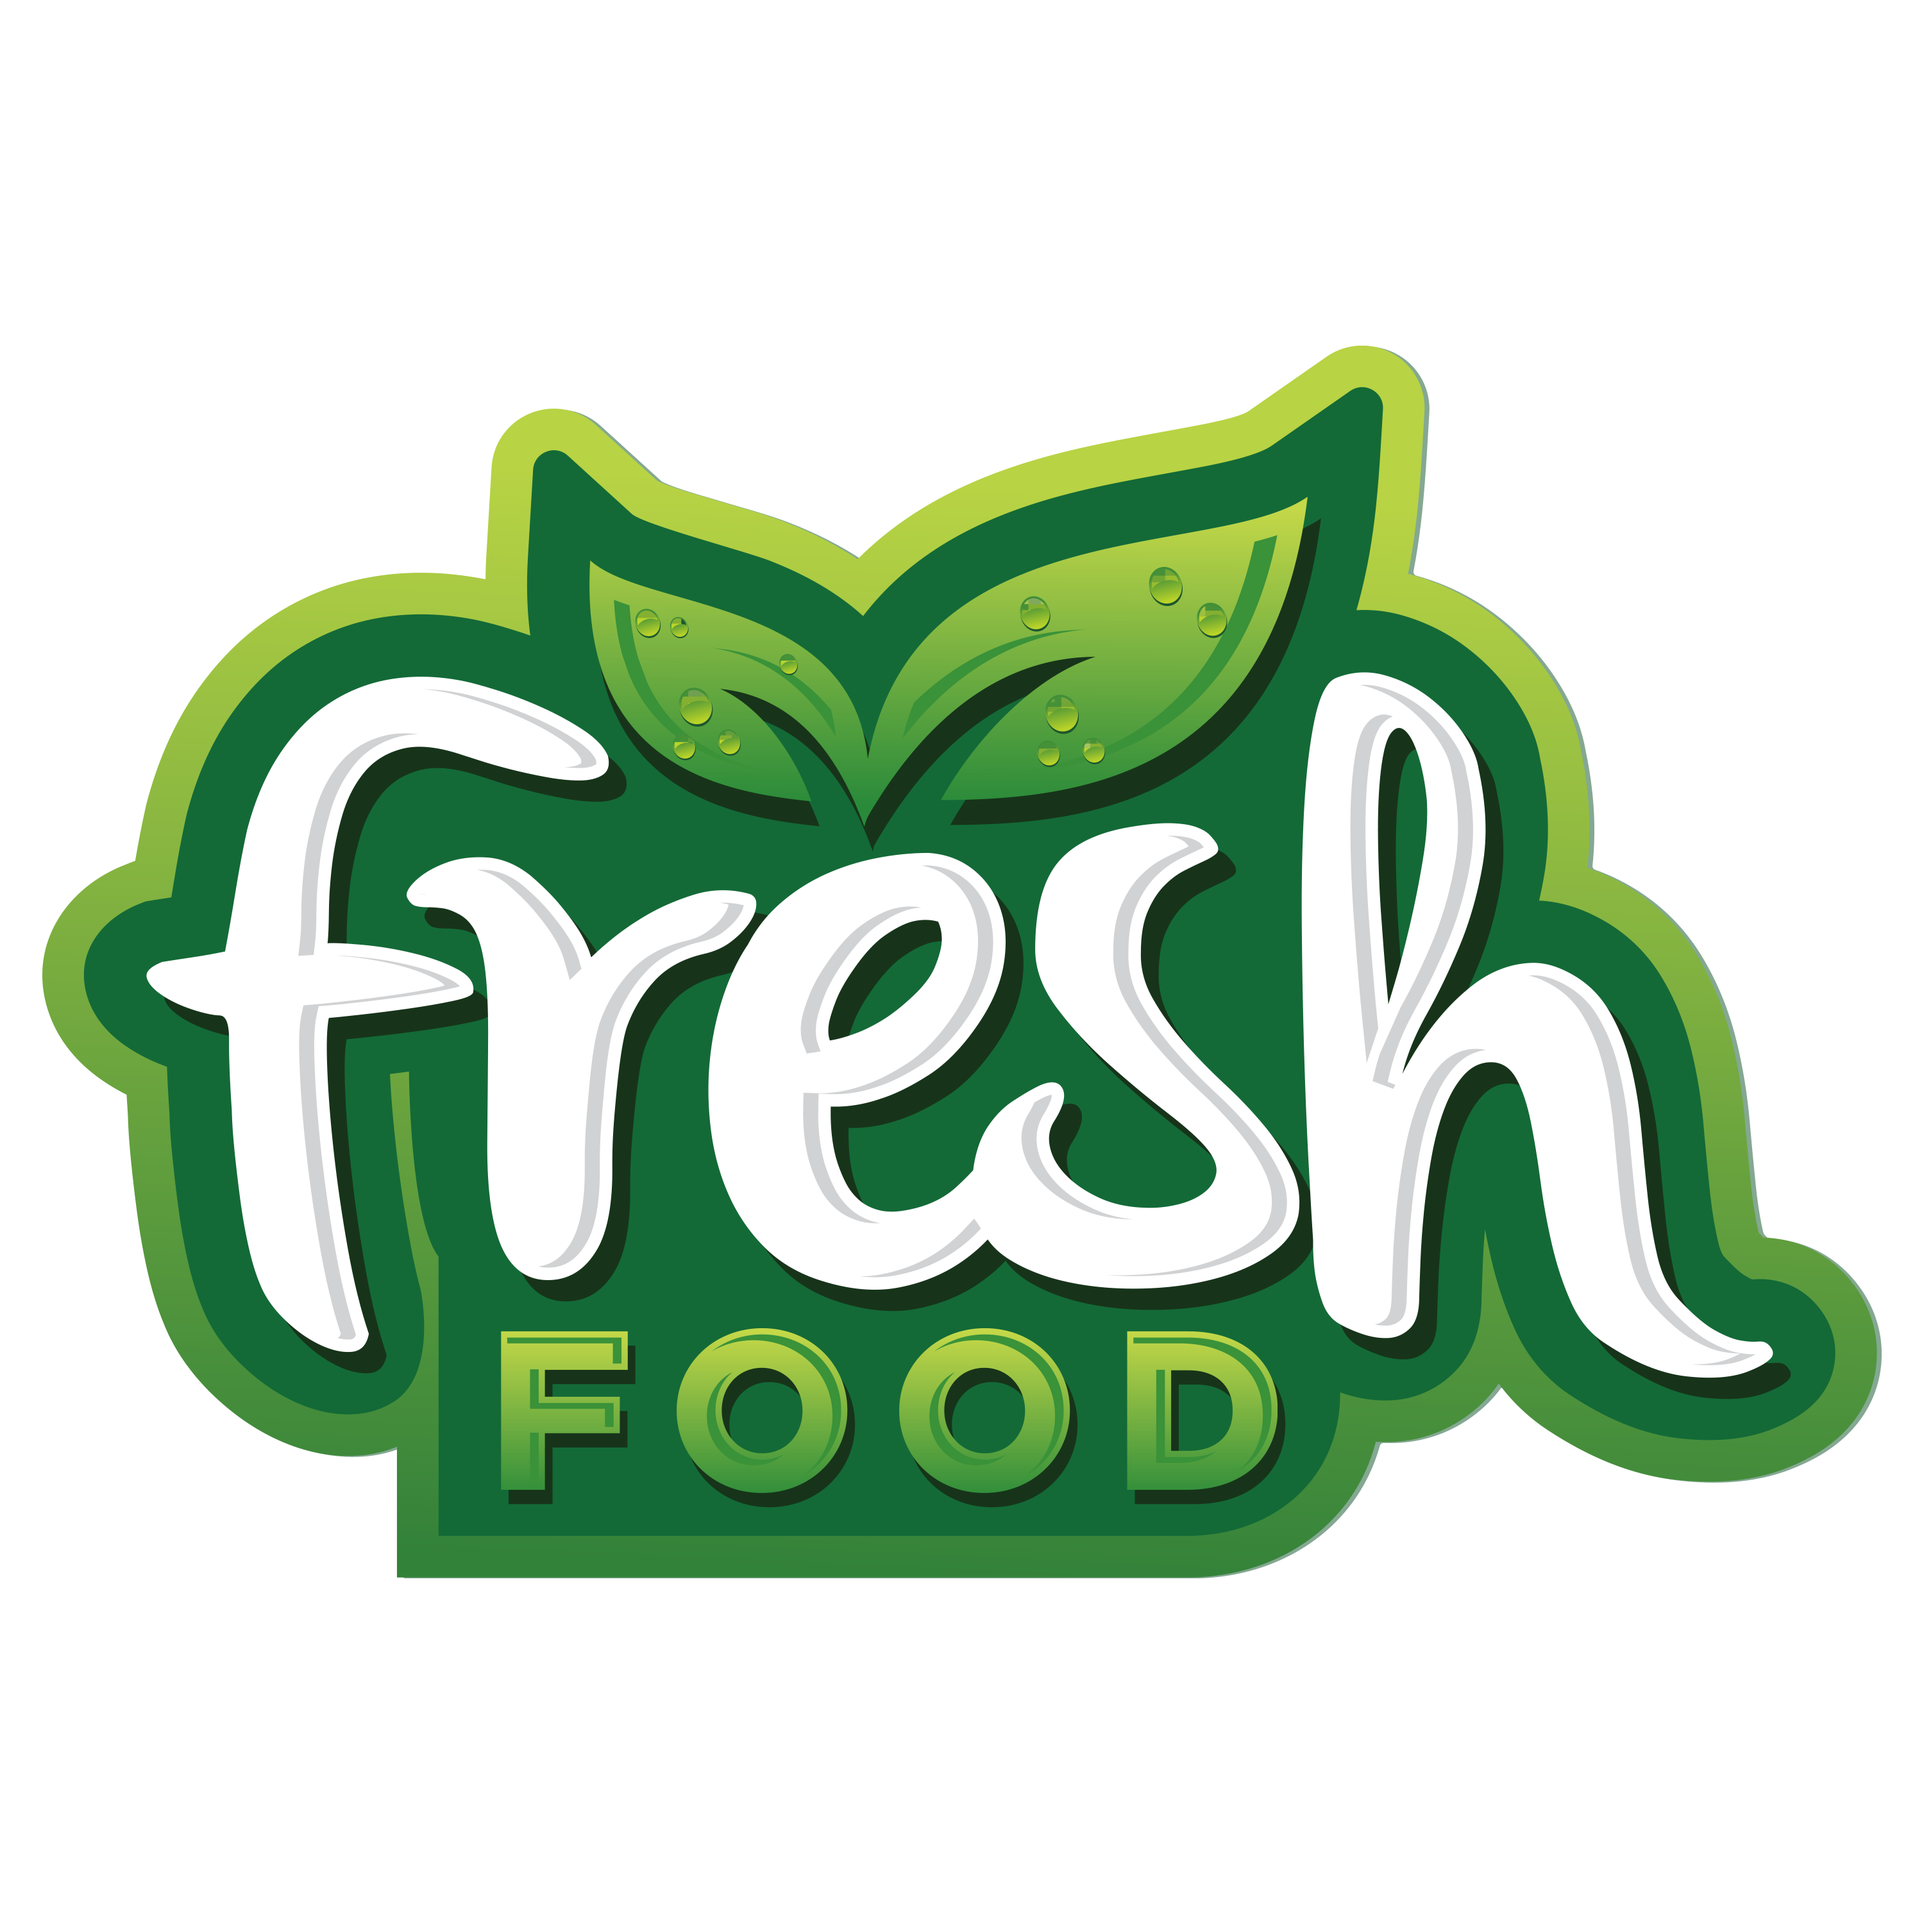
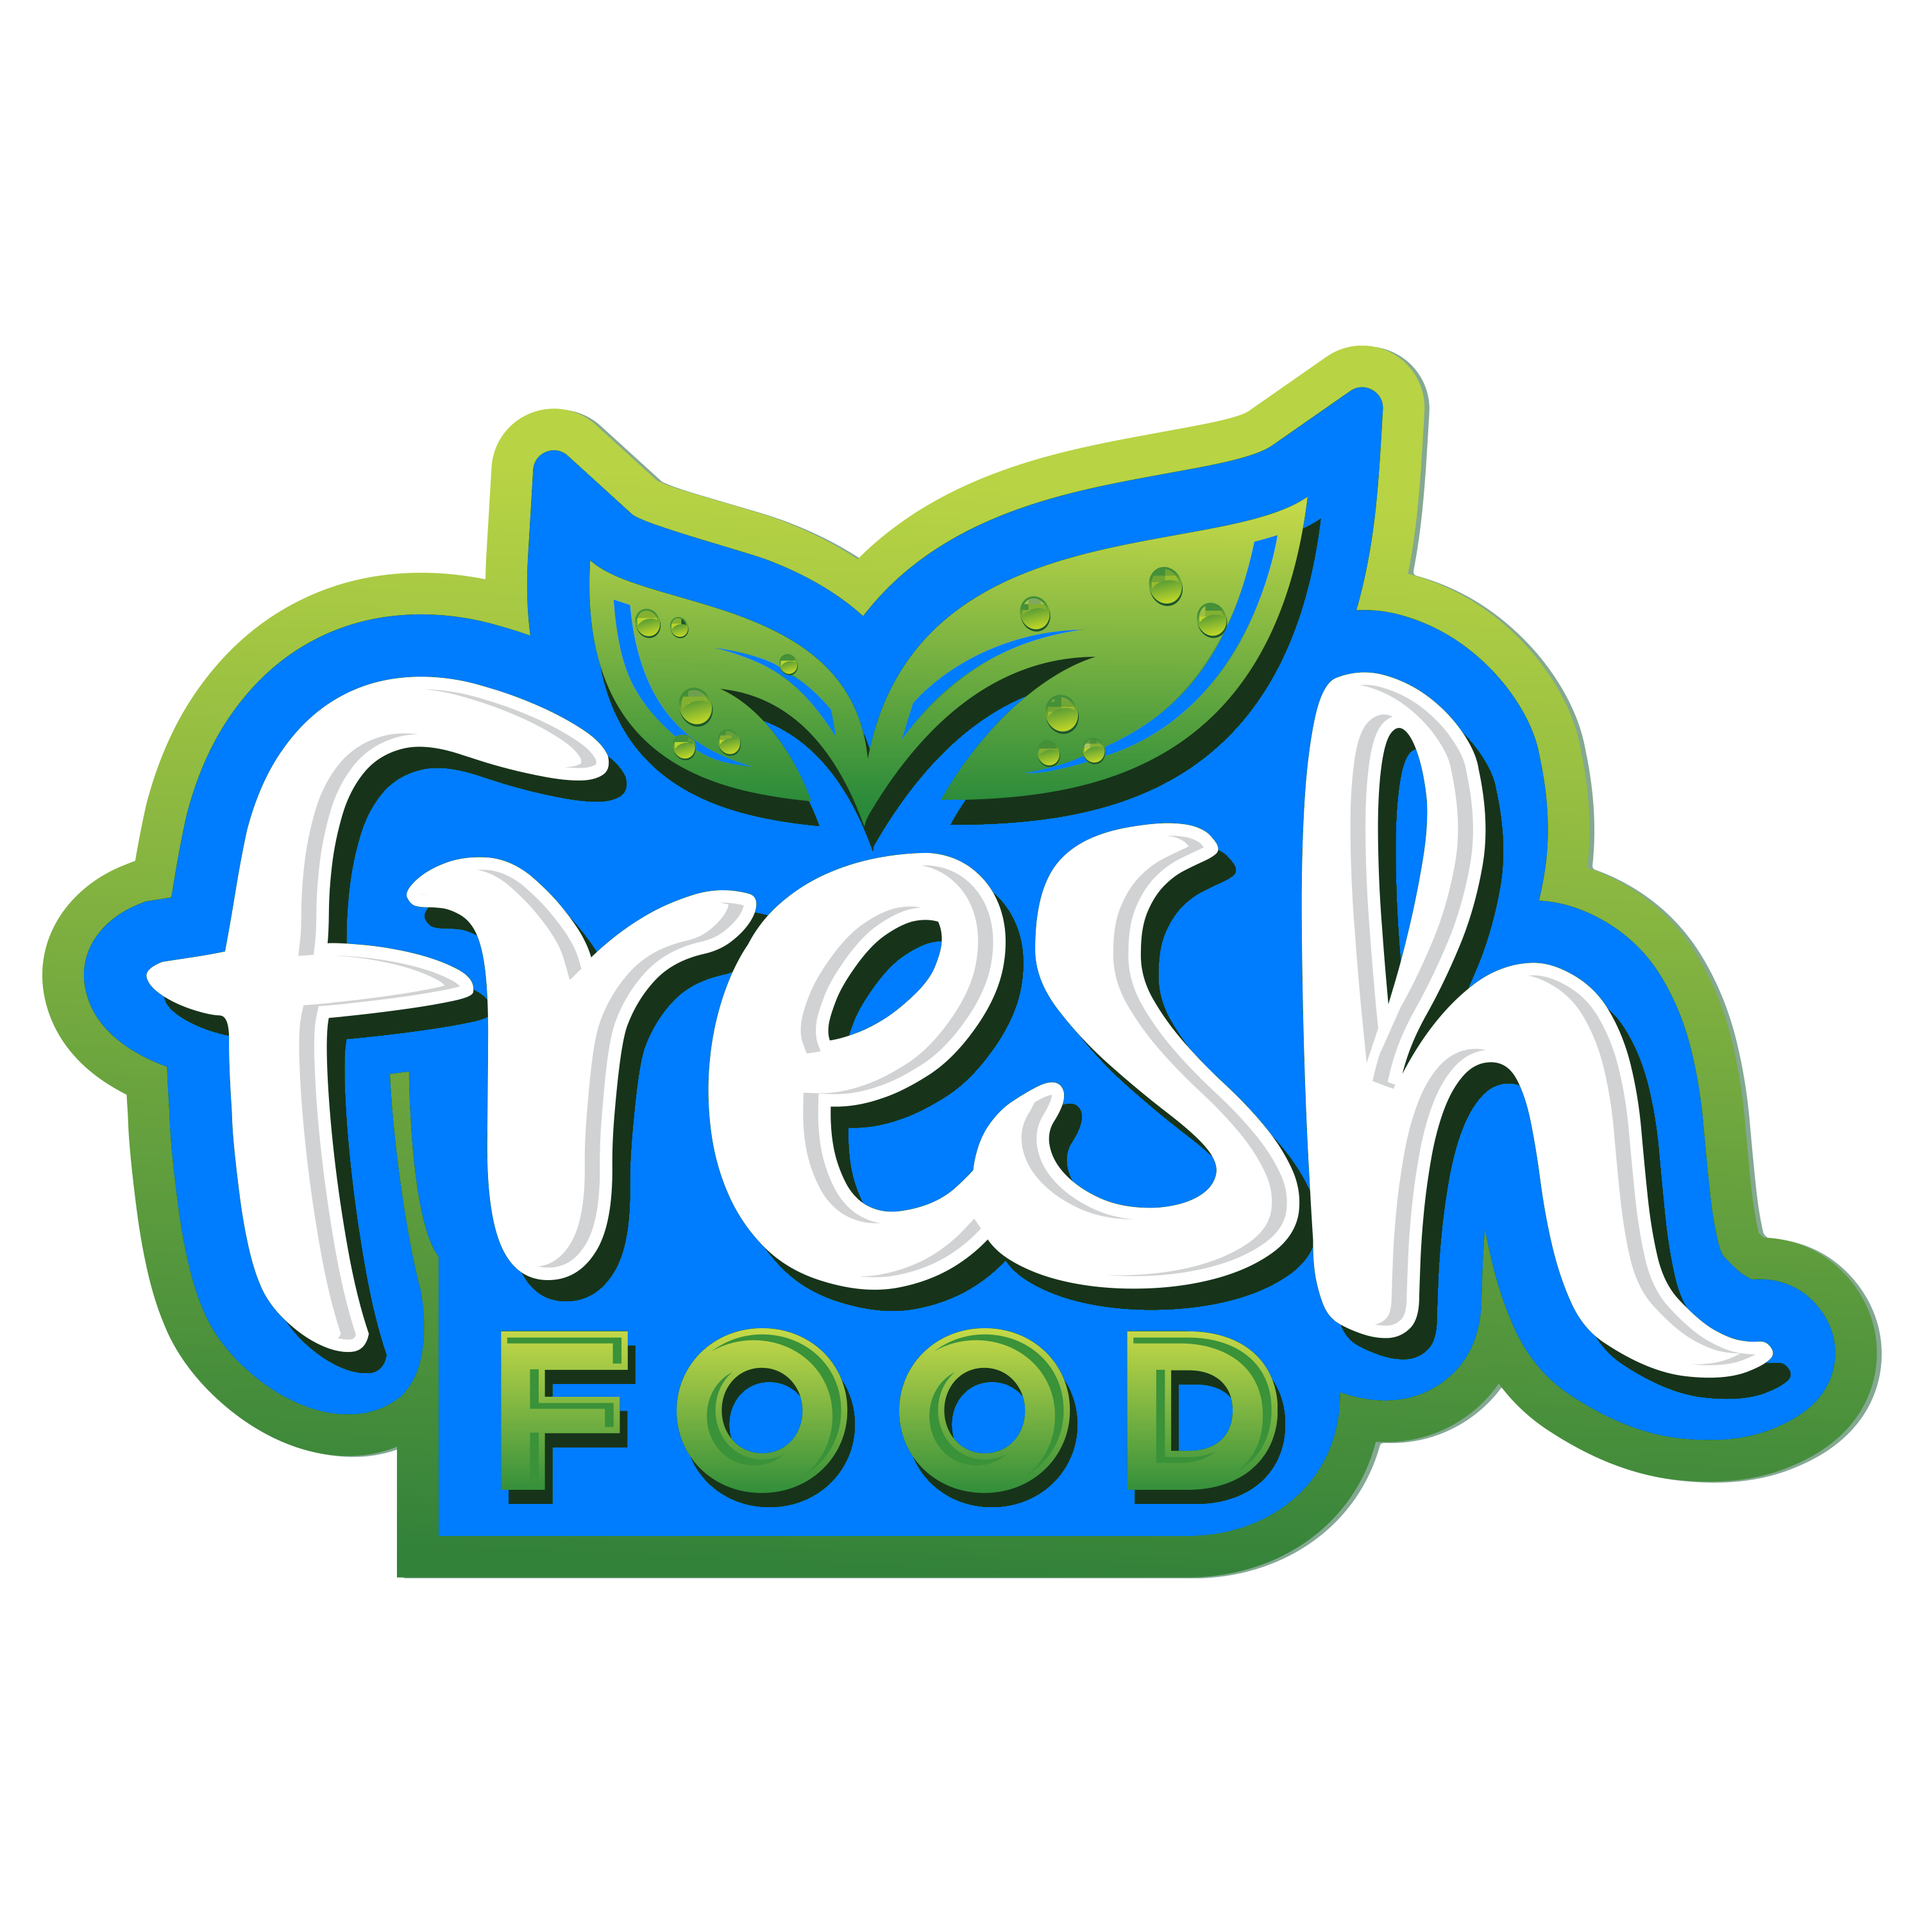
week-2/assignment-2

Changed region(s): [[0.031, 0.186, 0.961, 0.806], [0.434, 0.496, 0.496, 0.558]]

diff --git a/Week-2/Module-8/script.js b/Week-2/Module-8/script.js
@@ -6,14 +6,14 @@ function initPlace() {
         .then(res => res.json())
         .then((data) => {
             placeSearchResult(data, init);
-    })
+        })
 };
 
 function searchByName() {
     const val = document.getElementById('input-box').value;
     if (val == '') {
         const container = document.getElementById('result-title');
-        container.innerText = "Please Type Anything!"
+        container.innerText = "Please Type to Search!"
         return;
     }
 
@@ -27,15 +27,16 @@ function searchByName() {
 
 function placeSearchResult(searchResult, init = false) {
     const container = document.getElementById('search-result');
-    if(!init)
+    if (!init)
         document.getElementById('result-title').innerText = "Search Result";
-    else document.getElementById('result-title').innerText = "All Products";
+    else
+        document.getElementById('result-title').innerText = "All Products";
 
     if (!searchResult.meals) {
         container.innerHTML = `
         <div class='card'>
         <h1 class='text-danger m-5'>No Item Found!</h1>
-        <button class='btn btn-danger m-2' onclick="location.reload()">All Products</button>
+        <button class='btn btn-danger m-2' onclick="location.reload()">Refresh</button>
         </div>
         `;
         return;
@@ -50,13 +51,14 @@ function placeSearchResult(searchResult, init = false) {
         div.classList.add('shadow-sm');
 
         let info = {
-            name : product.strMeal,
-            image : product.strMealThumb,
-            category : product.strCategory,
-            from : product.strArea,
-            tags : product.strTags,
-            video : product.strYoutube,
-            ingredients : [product.strIngredient1, product.strIngredient2, product.strIngredient3],
+            id: product.idMeal,
+            name: product.strMeal,
+            image: product.strMealThumb,
+            category: product.strCategory,
+            from: product.strArea,
+            tags: product.strTags,
+            video: product.strYoutube,
+            ingredients: [product.strIngredient1, product.strIngredient2, product.strIngredient3]
         }
         // console.log(info);
 
@@ -65,24 +67,28 @@ function placeSearchResult(searchResult, init = false) {
             <div class='card-body'>
                 <h2 class='card-title'>${info.name}</h2>
                 <p class='card-text text-secondary'>Category: ${info.category}</p>
-                <button class='btn btn-warning' onclick="showDetails('${product.strMeal}', '${product.strMealThumb}', '${product.strArea}', '${product.strCategory}')">Details</button>
-                <button class='btn btn-success' onclick="showDetails('${product.strMeal}', '${product.strMealThumb}', '${product.strArea}', '${product.strCategory}')">Add to List +</button>
+                <button class='btn btn-warning' onclick="showDetails('${info.id}', '${info.name}', '${info.image}', '${info.from}', '${info.category}', '${info.tags}', '${info.video}', '${info.ingredients}')">Details</button>
+                <button class='btn btn-outline-primary' onclick="addToList('${info.id}', '${info.name}', '${info.image}', '${info.category}')">Add to List +</button>
             </div>
         `;
         container.appendChild(div);
     }
 };
 
-function showDetails(title, image, area, category) {
-    // console.log(product);
+function showDetails(id, title, image, area, category, tags, video, ingredients) {
+    // console.log(id, title, image, area, category, tags, video, ingredients);
     const modalTitle = document.getElementById('modalLabel');
     const modalBody = document.querySelector('#detailsModal .modal-body');
 
     modalTitle.innerText = title;
     modalBody.innerHTML = `
         <img src=${image} class="img-fluid mb-3" style='height: 250px'/>
-        <h5 class="text-danger">From: ${area}</h5>
-        <p>Category: ${category}</p>
+        <h5 class="text-primary">${area} - ${category}</h5>
+        <p class='text-secondary'>
+            Ingredients: ${ingredients} and more... <br>
+            Tags: ${tags} <br>
+            Video: <a class='text-decoration-none' href='${video}' target='_blank'>${video}</a>
+        </p>
     `;
 
     // Trigger modal
@@ -90,6 +96,56 @@ function showDetails(title, image, area, category) {
     modal.show();
 
 };
+
+function addToList(id, name, image, category) {
+    // console.log(id, name, image, category);
+    id = parseInt(id);
+    if (myItems.includes(id) || myItems.length == 10) {
+        const modalTitle = document.getElementById('modalLabel');
+        const modalBody = document.querySelector('#detailsModal .modal-body');
+        modalTitle.innerText = "Problem Occurred!";
+        modalBody.innerHTML = `
+            <h4 class='text-danger'>This food item is already in my list or Maximum amount of item added to the list!</h4>
+        `;
+        const modal = new bootstrap.Modal(document.getElementById('detailsModal'));
+        modal.show();
+        return;
+    }
+
+    myItems.push(id);
+    const container = document.getElementById('my-list');
+    const div = document.createElement('div');
+    div.classList.add('card');
+    div.classList.add('shadow-sm');
+    div.innerHTML = `
+        <img src=${image} class='card-img-top' alt='meal'>
+        <div class='card-body'>
+            <h2 class='card-title'>${name}</h2>
+            <p class='card-text text-secondary'>Category: ${category}</p>
+            <button class='btn btn-danger' onclick="removeFromList('${id}')">Remove</button>
+        </div>
+    `;
+    container.appendChild(div);
+    document.getElementById('my-items-title').innerText = `My List - ${myItems.length} Items`;
+}
+
+function removeFromList(id) {
+    id = parseInt(id);
+    const idx = myItems.indexOf(id);
+    if (idx !== -1) {
+        myItems.splice(idx, 1);
+    }
+    
+    const container = document.getElementById('my-list');
+    const cards = container.getElementsByClassName('card');
+    for (let card of cards) {
+        if (card.querySelector('button').getAttribute('onclick') === `removeFromList('${id}')`) {
+            container.removeChild(card);
+            break;
+        }
+    }
+    document.getElementById('my-items-title').innerText = `My List - ${myItems.length} Items`;
+}
 
 
 // initial place of all product

diff --git a/Week-2/Module-8/index.html b/Week-2/Module-8/index.html
@@ -13,25 +13,31 @@
 
 <body>
     <header>
-        <nav class="navbar fixed-top bg-success navbar-expand-lg" data-bs-theme="dark">
+        <nav class="navbar fixed-top navbar-expand-lg bg-primary"
+            data-bs-theme="dark">
             <div class="container-fluid">
-                <a class="navbar-brand" href="#"><img src="./food.png" alt="food" style="height: 80px;"></a>
+                <a class="navbar-brand" href="#">
+                    <img src="./food.png" alt="food" style="height: 80px;">
+                </a>
                 <button class="navbar-toggler" type="button" data-bs-toggle="collapse"
                     data-bs-target="#navbarSupportedContent" aria-controls="navbarSupportedContent"
                     aria-expanded="false" aria-label="Toggle navigation">
                     <span class="navbar-toggler-icon"></span>
                 </button>
                 <div class="collapse navbar-collapse" id="navbarSupportedContent">
-                    <ul class="navbar-nav me-auto mb-2 mb-lg-0">
+                    <ul class="navbar-nav m-auto mb-lg-0 w-100 d-flex justify-content-evenly">
                         <li class="nav-item">
-                            <a class="nav-link active" aria-current="page" href="#">Home</a>
+                            <a class="nav-link active nav-link-custom" aria-current="page" href="#">Home</a>
                         </li>
                         <li class="nav-item">
-                            <a class="nav-link active" aria-current="page" href="#result-title">All Food Items</a>
+                            <a class="nav-link active nav-link-custom" aria-current="page" href="#result-title">All Food
+                                Items</a>
                         </li>
                         <li class="nav-item">
-                            <a class="nav-link active" aria-current="page" href="#my-items-title">My List</a>
+                            <a class="nav-link active nav-link-custom" aria-current="page" href="#my-items-title">My
+                                List</a>
                         </li>
+                    </ul>
                 </div>
             </div>
         </nav>
@@ -40,23 +46,28 @@
     <main class="mt-5 mb-5 p-5">
         <form class="d-flex pt-5">
             <input id="input-box" class="form-control me-2 shadow-sm" type="text" placeholder="Search Food...">
-            <button id="search-btn" class="btn btn-outline-success shadow-sm" onclick=searchByName()>Search</button>
+            <button id="search-btn" class="btn btn-outline-primary shadow-sm" onclick=searchByName()>Search</button>
         </form>
-        
+
         <div class="search-title mt-5 mb-5">
-            <h1 id="result-title" class="text-success card text-center pt-2 pb-2">Search Result</h1>
+            <h1 id="result-title" class="text-primary card text-center pt-2 pb-2">Search Result</h1>
         </div>
         <div id="search-result" class="m-5 d-flex flex-wrap">
             <!-- here the search result will placed  -->
         </div>
 
-        <hr> <hr>
+        <hr>
+        <hr>
         <div class="my-title mt-5 mb-5">
-            <h1 id="my-items-title" class="text-success card text-center pt-2 pb-2">My List</h1>
+            <h1 id="my-items-title" class="text-primary card text-center pt-2 pb-2">My List - 0 Items</h1>
+        </div>
+        <div id="my-list" class="m-5 d-flex flex-wrap">
+            <!-- here the search result will placed  -->
         </div>
     </main>
-
-    <footer class='bg-success text-center text-light p-3'>
+    
+    <hr><hr>
+    <footer class='bg-primary text-center text-light p-3'>
         <div class="d-flex p-2 justify-content-evenly">
             <div class="footer-1">
                 <p>Contact US</p>
@@ -72,7 +83,7 @@
             </div>
         </div>
         <hr>
-        <h6>Copyright @MealShop, 2024</h6>
+        <h6>Copyright @FreshFood, 2024</h6>
     </footer>
 
     <script src="https://cdn.jsdelivr.net/npm/bootstrap@5.3.3/dist/js/bootstrap.bundle.min.js"
@@ -92,8 +103,7 @@
                     <!-- Content will be dynamically added here -->
                 </div>
                 <div class="modal-footer">
-                    <button type="button" class="btn btn-secondary" data-bs-dismiss="modal">Close</button>
-                    <button type="button" class="btn btn-success" data-bs-dismiss="modal">Add to List +</button>
+                    <button type="button" class="btn btn-outline-secondary" data-bs-dismiss="modal">Close</button>
                 </div>
             </div>
         </div>

diff --git a/Week-2/Module-8/style.css b/Week-2/Module-8/style.css
@@ -4,6 +4,17 @@
     font-weight: bolder;
 }
 
+.nav-link-custom {
+    font-size: 1.2rem; 
+    border-radius: 20px;
+    padding-left: 10px;
+    margin-left: 10px;
+}
+
+.nav-link-custom:hover{
+    background-color: rgb(0, 89, 255);
+}
+
 main{
     min-height: 100vh;
 }
